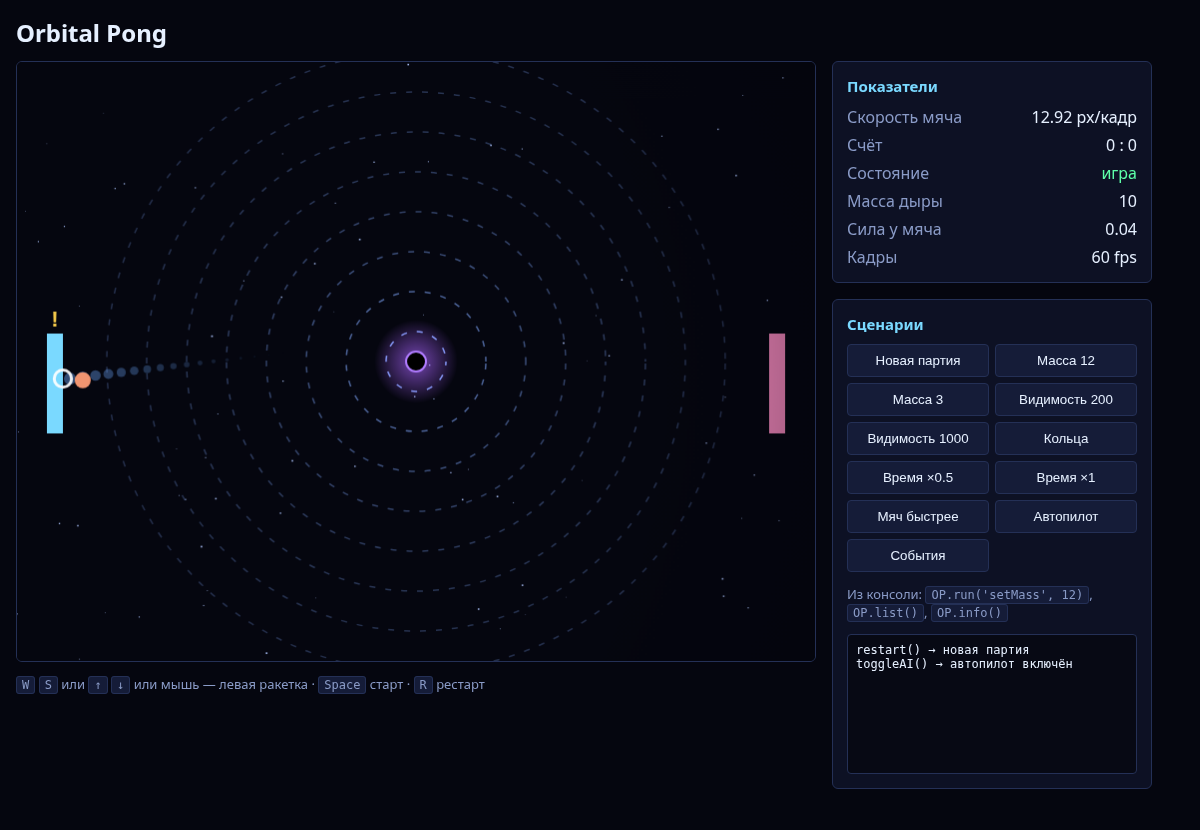
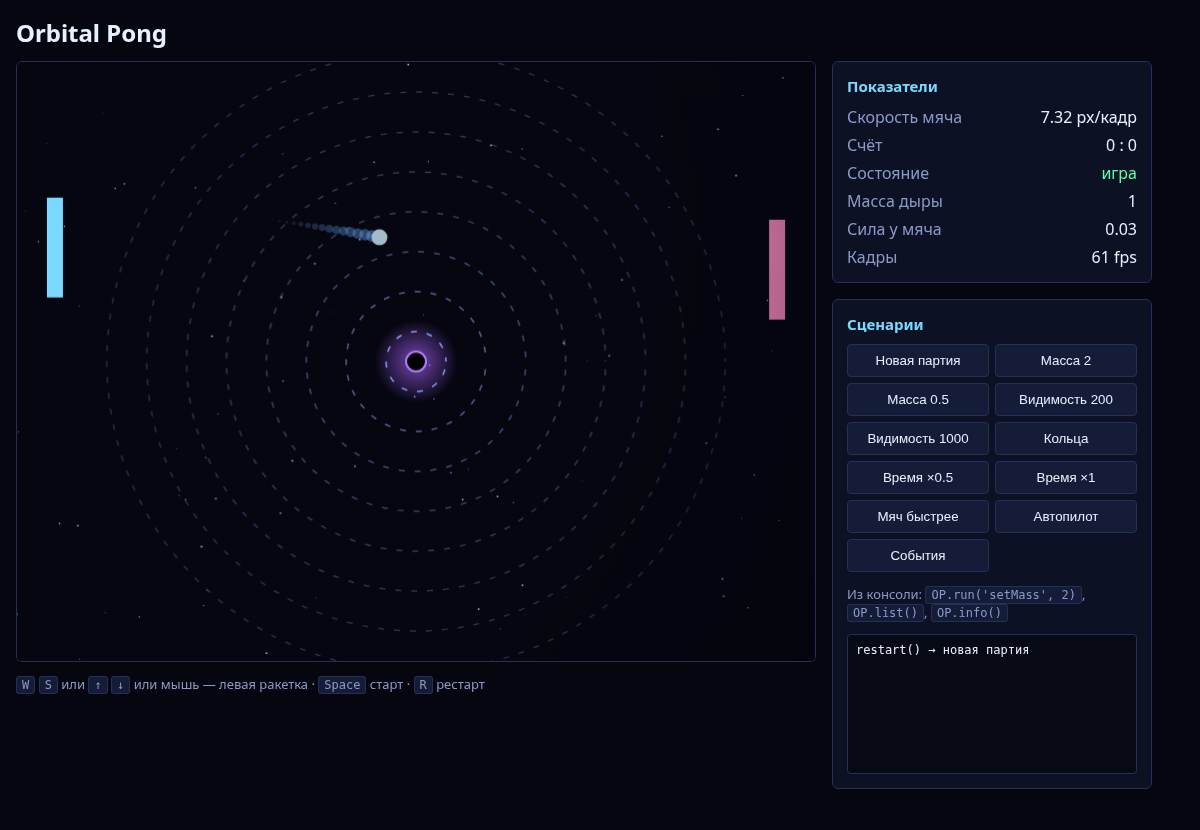
ЛР 4–5: играбельные параметры (масса дыры, подача, скорость ИИ, наклон мяча)

diff --git a/js_core/selftest.js b/js_core/selftest.js
@@ -27,7 +27,7 @@ function group(title) {
 
 const LEVEL = validateLevel({
     window: { width: 800, height: 600 },
-    black_hole: { x: 400, y: 300, mass: 10 },
+    black_hole: { x: 400, y: 300, mass: 1 },
     paddle_margin: 30,
     win_score: 5,
 }).level;
@@ -182,6 +182,29 @@ hit.step({});
 check('отскок от ракетки меняет vx и пишет событие',
       hit.ball.vx > 0 && hit.events.some((e) => e.type === 'paddle-hit' && e.side === 'left'));
 
+check('правая ракетка (ИИ) медленнее игрока', hit.right.speed === CONFIG.AI_SPEED && hit.left.speed > hit.right.speed);
+check('массу дыры по умолчанию задаёт уровень', hit.mass === 1 && DEFAULT_LEVEL.black_hole.mass === CONFIG.HOLE_MASS);
+
+const spin = new Game(LEVEL);
+spin.start();
+spin.ball.x = spin.left.x + spin.left.width + 2;
+spin.ball.y = spin.left.rect.centerY + 30;
+spin.ball.vx = -4;
+spin.ball.vy = 0;
+spin.step({});
+check('удар ниже центра ракетки отклоняет мяч вниз', spin.ball.vy > 1, `vy=${spin.ball.vy.toFixed(2)}`);
+
+const serveGame = new Game(LEVEL);
+serveGame.start();
+let serveMinD = Infinity;
+for (let i = 0; i < 400; i += 1) {
+    serveGame.step({});
+    serveMinD = Math.min(serveMinD, serveGame.field.distanceToHole(serveGame.ball.x, serveGame.ball.y));
+    if (serveGame.ball.x > serveGame.field.width / 2 + 50) break;
+}
+check('подача проходит мимо дыры, а не в неё', serveMinD > 40 && serveGame.events.every((e) => e.type !== 'hole-catch'),
+      `мин. расстояние ${serveMinD.toFixed(0)} px`);
+
 const goal = new Game(LEVEL);
 goal.start();
 goal.left.y = 0;
@@ -191,7 +214,7 @@ goal.ball.vx = -20;
 goal.ball.vy = 0;
 goal.step({});
 check('мяч за левыми воротами — очко правому', goal.rightScore === 1 && goal.leftScore === 0);
-check('после гола подача заново', goal.ball.x === 200 && goal.ball.y === 300);
+check('после гола подача заново (слева сверху, мимо дыры)', goal.ball.x === 200 && goal.ball.y === 150);
 
 const catcher = new Game(LEVEL);
 catcher.start();
@@ -227,6 +250,7 @@ match.start();
 for (let i = 0; i < 5; i += 1) {
     match.ball.x = -5;
     match.ball.y = 20;
+    match.ball.vx = -3;
     match.step({});
     if (match.state === State.OVER) break;
 }

diff --git a/widget/index.html b/widget/index.html
@@ -25,7 +25,7 @@
                     <dt>Скорость мяча</dt><dd><span id="hud-speed">0.00</span> px/кадр</dd>
                     <dt>Счёт</dt><dd id="hud-score">0 : 0</dd>
                     <dt>Состояние</dt><dd id="hud-state" data-state="MENU">меню</dd>
-                    <dt>Масса дыры</dt><dd id="hud-mass">10</dd>
+                    <dt>Масса дыры</dt><dd id="hud-mass">1</dd>
                     <dt>Сила у мяча</dt><dd id="hud-gravity">0.00</dd>
                     <dt>Кадры</dt><dd><span id="hud-fps">0</span> fps</dd>
                 </dl>
@@ -35,8 +35,8 @@
                 <h2>Сценарии</h2>
                 <div class="buttons">
                     <button type="button" data-scenario="restart">Новая партия</button>
-                    <button type="button" data-scenario="setMass" data-arg="12">Масса 12</button>
-                    <button type="button" data-scenario="setMass" data-arg="3">Масса 3</button>
+                    <button type="button" data-scenario="setMass" data-arg="2">Масса 2</button>
+                    <button type="button" data-scenario="setMass" data-arg="0.5">Масса 0.5</button>
                     <button type="button" data-scenario="setVisibility" data-arg="200">Видимость 200</button>
                     <button type="button" data-scenario="setVisibility" data-arg="1000">Видимость 1000</button>
                     <button type="button" data-scenario="toggleRings">Кольца</button>
@@ -46,7 +46,7 @@
                     <button type="button" data-scenario="toggleAI">Автопилот</button>
                     <button type="button" data-scenario="showEvents">События</button>
                 </div>
-                <p class="hint">Из консоли: <code>OP.run('setMass', 12)</code>, <code>OP.list()</code>, <code>OP.info()</code></p>
+                <p class="hint">Из консоли: <code>OP.run('setMass', 2)</code>, <code>OP.list()</code>, <code>OP.info()</code></p>
                 <pre id="scenario-log" class="log"></pre>
             </section>
         </aside>

diff --git a/js_core/js/game.js b/js_core/js/game.js
@@ -17,6 +17,7 @@ export class Game {
         this.left = new Paddle(level.paddle_margin, top, this.field.height);
         this.right = new Paddle(this.field.width - level.paddle_margin - CONFIG.PADDLE_WIDTH,
                                 top, this.field.height);
+        this.right.speed = CONFIG.AI_SPEED;
         this.ball = new Ball();
         this.serve();
 
@@ -33,7 +34,7 @@ export class Game {
     }
 
     serve() {
-        this.ball.reset(this.field.width / 4, this.field.height / 2);
+        this.ball.reset(this.field.width / 4, this.field.height / 4);
         this.lastHit = null;
     }
 
@@ -73,11 +74,13 @@ export class Game {
 
         if (ball.rect.colliderect(this.left.rect) && ball.vx < 0) {
             ball.vx = Math.abs(ball.vx);
+            ball.vy += (ball.y - this.left.rect.centerY) * CONFIG.PADDLE_SPIN;
             this.lastHit = 'left';
             this.pushEvent('paddle-hit', { side: 'left', y: ball.y });
         }
         if (ball.rect.colliderect(this.right.rect) && ball.vx > 0) {
             ball.vx = -Math.abs(ball.vx);
+            ball.vy += (ball.y - this.right.rect.centerY) * CONFIG.PADDLE_SPIN;
             this.lastHit = 'right';
             this.pushEvent('paddle-hit', { side: 'right', y: ball.y });
         }

diff --git a/js_core/js/level.js b/js_core/js/level.js
@@ -2,7 +2,7 @@ import { CONFIG } from './config.js';
 
 export const DEFAULT_LEVEL = Object.freeze({
     window: { width: CONFIG.WIDTH, height: CONFIG.HEIGHT },
-    black_hole: { x: CONFIG.WIDTH / 2, y: CONFIG.HEIGHT / 2, mass: 10 },
+    black_hole: { x: CONFIG.WIDTH / 2, y: CONFIG.HEIGHT / 2, mass: CONFIG.HOLE_MASS },
     paddle_margin: CONFIG.PADDLE_MARGIN,
     win_score: CONFIG.WIN_SCORE,
 });

diff --git a/js_core/js/config.js b/js_core/js/config.js
@@ -8,14 +8,17 @@ export const CONFIG = {
     SOFTENING: 6,
 
     PADDLE_SPEED: 6,
+    AI_SPEED: 4,
     PADDLE_WIDTH: 16,
     PADDLE_HEIGHT: 100,
     PADDLE_MARGIN: 30,
 
-    SERVE_VX: 4,
-    SERVE_VY: 2,
+    SERVE_VX: 7,
+    SERVE_VY: 1,
+    PADDLE_SPIN: 0.08,
     BALL_RADIUS: 8,
     MAX_BALL_SPEED: 30,
+    HOLE_MASS: 1,
     WIN_SCORE: 5,
 };
 

diff --git a/widget/js/render.js b/widget/js/render.js
@@ -3,7 +3,7 @@ import { gravityForce } from '../../js_core/js/physics.js';
 
 const BG = '#05060f';
 const RING_RADII = [30, 70, 110, 150, 190, 230, 270, 310];
-const REFERENCE_FORCE = gravityForce(10, RING_RADII[0]);
+const REFERENCE_FORCE = gravityForce(1, RING_RADII[0]);
 
 export function makeStars(count, width, height) {
     const stars = [];

diff --git a/js_core/README.md b/js_core/README.md
@@ -18,8 +18,8 @@ node selftest.js
 Ожидаемый хвост вывода:
 
 ```
-Всего проверок: 66
-Успешно: 66
+Всего проверок: 70
+Успешно: 70
 Провалено: 0
 
 ВСЕ ПРОВЕРКИ ПРОШЛИ
@@ -31,7 +31,7 @@ node selftest.js
 js_core/
 ├── package.json     # "type": "module" — файлы выполняются как ES-модули
 ├── level.json       # пример уровня
-├── selftest.js      # 66 проверок
+├── selftest.js      # 70 проверок
 └── js/
     ├── config.js    # все константы в одном месте
     ├── vector.js    # Vec
@@ -63,17 +63,32 @@ vy += a · (center_y − y) / d
 |---|---|---|
 | `G` | 500 | `physics.cfg` |
 | `m` | 1.0 | `physics.cfg` |
-| `M` | 10 (по умолчанию) | `level.json`, поле `black_hole.mass` |
+| `M` | 1 (по умолчанию) | `level.json`, поле `black_hole.mass`; при `M = 1` сила в точности `G / d²` из ЛР 1 |
 | `ε` | 6 | `config.js`, `SOFTENING` |
 | радиус дыры | 10 | как в Python (`d > 10`) |
 
-**Зачем softening.** При `d → 0` обычная формула даёт `F → ∞`: мяч получает огромную скорость за один кадр и вылетает за экран. Слагаемое `ε²` ограничивает силу: `F ≤ G · M / ε²`. Для `M = 10` это 138.9 (функция `MAX_FORCE` в `config.js`).
+**Зачем softening.** При `d → 0` обычная формула даёт `F → ∞`: мяч получает огромную скорость за один кадр и вылетает за экран. Слагаемое `ε²` ограничивает силу: `F ≤ G · M / ε²`. Для `M = 1` это 13.9 (функция `MAX_FORCE` в `config.js`).
 
 **Как выбрана ε.** При `d ≫ ε` формула почти не отличается от исходной: на `d = 100` разница 0.36%, а на `d = 10` (граница дыры) 26%. То есть softening заметен только у самой дыры. При `M = 1` и `ε = 0` формула в точности равна `G / d²` из ЛР 1 — это проверяет самопроверка.
 
 **Порог срабатывания.** Мяч считается упавшим в дыру, если расстояние до центра ≤ 10. За кадр мяч может пролететь десятки пикселей и перескочить дыру целиком, поэтому проверяется не точка, а отрезок пути за кадр (`segmentHitsCircle`).
 
 **Предел скорости.** Скорость мяча ограничена `MAX_BALL_SPEED = 30`. Это меньше суммы ширины ракетки и диаметра мяча (16 + 16 = 32), поэтому мяч не может пролететь сквозь ракетку между двумя кадрами.
+
+## Параметры для игры
+
+Подобраны так, чтобы мяч заметно искривлялся у дыры, но не кружил вокруг неё:
+
+| Параметр | Значение | Что делает |
+|---|---|---|
+| `HOLE_MASS` | 1 (было 10) | при 10 мяч подолгу крутился вокруг дыры |
+| `SERVE_VX`, `SERVE_VY` | 7, 1 (было 4, 2 → 6, 2) | быстрая подача слабее поддаётся притяжению |
+| подача | из точки (200, 150) (было (200, 300)) | мяч идёт мимо дыры, на расстоянии около 115 px |
+| `AI_SPEED` | 4 (было 6) | ИИ не успевает за каждым мячом |
+| `PADDLE_SPIN` | 0.08 (новое) | угол отскока зависит от места удара |
+| `SOFTENING` | 6 (не менялся) | |
+
+Проверено прогонами «игрок с ошибками против ИИ» (30 партий): все партии заканчиваются, в среднем около 75 с и около 39 ударов за партию, полный оборот вокруг дыры в среднем 0.1 раза за партию, дыра съедает мяч примерно 2 раза за партию.
 
 ## Конечный автомат
 
@@ -89,7 +104,9 @@ vy += a · (center_y − y) / d
 
 - Мяч отскакивает от верхней и нижней стены (`Field.bounceWalls`) и от ракеток (меняется знак `vx`).
 - Мяч за левым или правым краем — гол, очко получает противоположная сторона.
-- Дыра «съедает» мяч: очко получает соперник того, кто отбил мяч последним. Если мяч никто не отбивал (подача сразу упала в дыру), очков нет, подача повторяется. Это правило добавлено только в JS-версии (в Python мяч пролетает дыру насквозь); при очень большой массе (около 15 и больше) подача падает в дыру сразу.
+- Дыра «съедает» мяч: очко получает соперник того, кто отбил мяч последним. Если мяч никто не отбивал (подача сразу упала в дыру), очков нет, подача повторяется. Это правило добавлено только в JS-версии (в Python мяч пролетает дыру насквозь); при массе больше 2 мяч искривляется так сильно, что игра перестаёт быть похожей на пинг-понг.
+- При ударе по ракетке мяч отклоняется вверх или вниз: `vy += (y_мяча − y_центра_ракетки) · PADDLE_SPIN` (0.08). Так игрок выбирает направление.
+- Правая ракетка (ИИ) ездит со скоростью `AI_SPEED = 4`, игрок — `PADDLE_SPEED = 6`: ИИ можно обыграть.
 - Партия идёт до `win_score` очков (по умолчанию 5).
 - `Game.events` — «чёрный ящик» событий (`start`, `wall-bounce`, `paddle-hit`, `hole-catch`, `goal`, `game-over`), хранится не больше 200 штук.
 
@@ -99,7 +116,7 @@ vy += a · (center_y − y) / d
 
 ## Результаты самопроверки
 
-66 проверок через `console.log`:
+70 проверок через `console.log`:
 
 | Группа | Что проверяется |
 |---|---|
@@ -110,7 +127,7 @@ vy += a · (center_y − y) / d
 | Автомат | допустимые и запрещённые переходы, история |
 | Уровень | верный JSON, битый JSON, неверный тип, значение вне диапазона, нет полей, дыра вне поля |
 | Поле | зоны поля, стены, ворота, расстояние до дыры, отскок |
-| Игра | до старта шаг не идёт, ввод, отскок от ракетки, гол, дыра, конец партии на 5 очках, 20000 шагов без NaN |
+| Игра | до старта шаг не идёт, ввод, отскок от ракетки, гол, дыра, конец партии на 5 очках, 20000 шагов без NaN, подача мимо дыры, наклон мяча при ударе, ИИ медленнее игрока |
 
 ## Соответствие требованиям ЛР 4
 
@@ -124,6 +141,6 @@ vy += a · (center_y − y) / d
 | Игровое поле | `js/field.js` |
 | Загрузка уровня из JSON с валидацией | `js/level.js` |
 | Независимость от интерфейса | нет `document` и `window`, запуск в Node |
-| Самопроверка не менее 20 проверок | `selftest.js`, 66 проверок |
+| Самопроверка не менее 20 проверок | `selftest.js`, 70 проверок |
 | `package.json` с `"type": "module"` | `package.json` |
 | README | этот файл |

diff --git a/widget/README.md b/widget/README.md
@@ -58,18 +58,18 @@ widget/
 Вокруг дыры рисуются 8 колец с радиусами 30…310 px. Прозрачность кольца считается по силе гравитации на его радиусе (`ringAlpha` в `render.js`):
 
 ```
-share = min(1, F(r) / F_ref)        F(r) = G·M / (r² + ε²), F_ref = F(30) при M = 10
+share = min(1, F(r) / F_ref)        F(r) = G·M / (r² + ε²), F_ref = F(30) при M = 1
 alpha = 0.08 + 0.9 · share^0.35
 ```
 
 Степень 0.35 нужна, чтобы дальние кольца не пропадали: сила падает как `1/r²`. Порядок «ближе — ярче» сохраняется. Масса `M` берётся из игры, поэтому после `setMass` кольца меняются:
 
-| Радиус, px | M = 2 | M = 10 | M = 12 |
+| Радиус, px | M = 0.5 | M = 1 | M = 2 |
 |---:|---:|---:|---:|
-| 30 | 0.59 | 0.98 | 0.98 |
-| 110 | 0.29 | 0.45 | 0.47 |
-| 190 | 0.22 | 0.33 | 0.35 |
-| 310 | 0.18 | 0.26 | 0.27 |
+| 30 | 0.79 | 0.98 | 0.98 |
+| 110 | 0.37 | 0.45 | 0.55 |
+| 190 | 0.28 | 0.33 | 0.40 |
+| 310 | 0.22 | 0.26 | 0.31 |
 
 Цвет задаётся строкой `rgba(130, 170, 255, alpha)`, а не `globalAlpha`: прозрачность вшита в цвет конкретной линии и не влияет на остальные рисунки.
 
@@ -98,9 +98,9 @@ alpha = 0.08 + 0.9 · share^0.35
 
 Сценарий — именованная функция из реестра в `scenarios.js`. Вызывается тремя способами:
 
-1. кнопкой: `<button data-scenario="setMass" data-arg="12">`;
-2. из консоли: `OP.run('setMass', 12)`;
-3. через объект виджета: `OP.widget.run('setMass', 12)`.
+1. кнопкой: `<button data-scenario="setMass" data-arg="2">`;
+2. из консоли: `OP.run('setMass', 2)`;
+3. через объект виджета: `OP.widget.run('setMass', 2)`.
 
 `run` проверяет, что сценарий существует (иначе пишет в лог и в консоль список имён), ловит исключения и пишет строку в панель «лог».
 
@@ -118,7 +118,7 @@ alpha = 0.08 + 0.9 · share^0.35
 
 Консоль: `OP.list()` — список имён, `OP.info()` — состояние.
 
-Важно: при очень большой массе (около 15 и больше) подача сразу падает в дыру, а очки в этом случае не начисляются. Для игры подходят массы примерно до 12.
+Важно: масса по умолчанию 1. Для игры подходят значения 0.5…2, при большей массе мяч искривляется слишком сильно.
 
 ## Интеграция с ядром
 

diff --git a/README.md b/README.md
@@ -288,11 +288,11 @@ cd js_core
 node selftest.js
 ```
 
-Результат: 66 проверок, все проходят. Подробности: `js_core/README.md`.
+Результат: 70 проверок, все проходят. Подробности: `js_core/README.md`.
 
 ## Веб-виджет (ЛР 5)
 
-В папке `widget/` лежит виджет на Canvas. Игрок управляет левой ракеткой мышью или клавишами, правая ракетка едет за мячом. Вокруг дыры рисуются орбитальные кольца, прозрачность которых зависит от силы гравитации. Сценарии вызываются кнопками и из консоли (`OP.run('setMass', 12)`).
+В папке `widget/` лежит виджет на Canvas. Игрок управляет левой ракеткой мышью или клавишами, правая ракетка едет за мячом. Вокруг дыры рисуются орбитальные кольца, прозрачность которых зависит от силы гравитации. Сценарии вызываются кнопками и из консоли (`OP.run('setMass', 2)`).
 
 Запуск из корня проекта (ES-модули не работают через `file://`):
 
